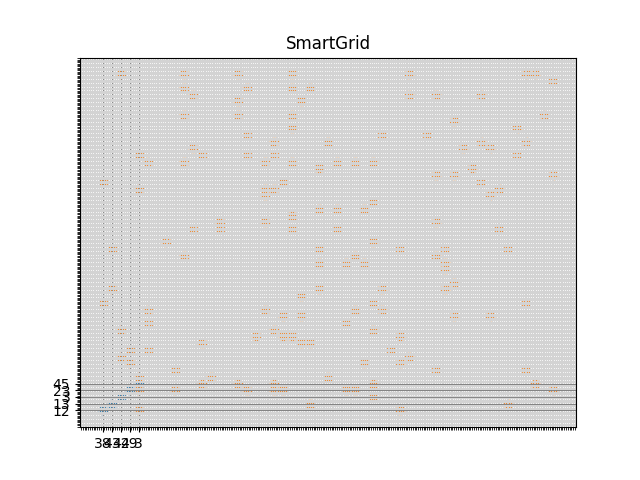
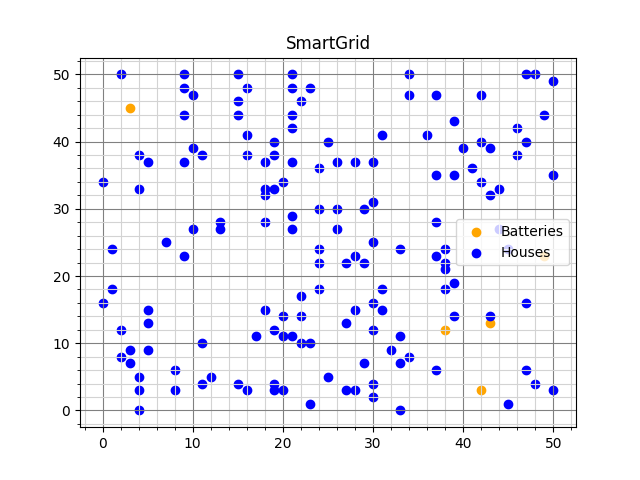
visualise tryout

diff --git a/code/visualisations/visualise.py b/code/visualisations/visualise.py
@@ -5,32 +5,25 @@ district_number = '1'
 battery_file = (f"data/Huizen&Batterijen/district_{district_number}/district-{district_number}_batteries.csv")
 house_file = (f"data/Huizen&Batterijen/district_{district_number}/district-{district_number}_houses.csv")
 
-d1_houses = pd.read_csv(house_file)
-d1_houses.plot(kind='scatter', x='x', y='y')
+# load data files
+dfhouses = pd.read_csv(house_file)
+dfhouses.plot(kind='scatter', x='x', y='y')
 
-d1_batteries =  pd.read_csv(battery_file)
-d1_batteries[['x','y']] = d1_batteries.positie.str.split(",",expand=True)
-
-print(d1_batteries['x'])
-print(d1_houses['x'])
-print('check')
-
+dfbatteries =  pd.read_csv(battery_file)
+dfbatteries[['x','y']] = dfbatteries.positie.str.split(",",expand=True)
+dfbatteries = dfbatteries[['x','y']].astype(str).astype(int)
 
 # clear the figure
 plt.clf()
-#plt.scatter(house_file)
 plt.title('SmartGrid')
-plt.scatter(d1_batteries['x'], d1_batteries['y'])
-plt.scatter(d1_houses['x'], d1_houses['y'])
-#grid 
+plt.scatter(dfbatteries['x'], dfbatteries['y'], color='orange', label = "Batteries")
+plt.scatter(dfhouses['x'], dfhouses['y'], color='blue', label = "dfHouses")
+
 plt.minorticks_on()
 plt.grid(which='minor', color='lightgrey')
 plt.grid(which='major', color='grey')
 
-
-# plot size
-# px = 1/plt.rcParams['figure.dpi']
-# plt.figsize=(800*px, 1200*px)
-
+# legenda
+plt.legend()
 plt.show()
 plt.savefig('result.png')
